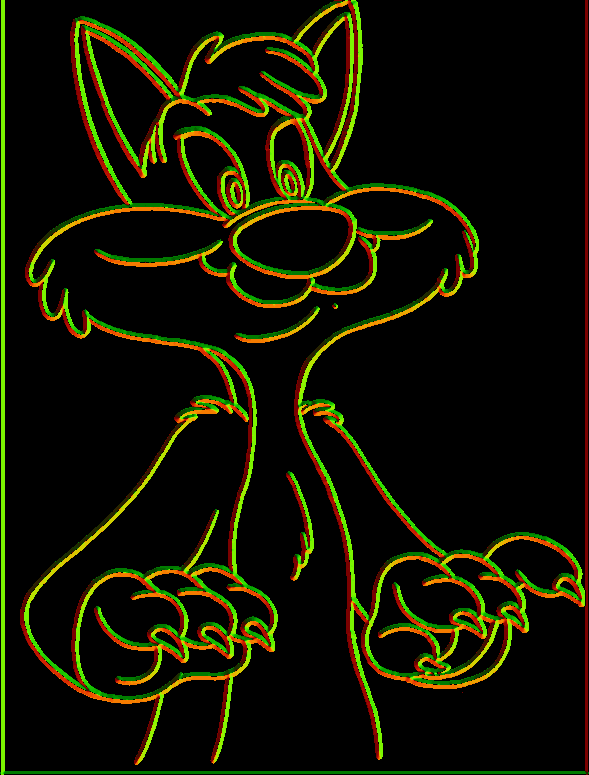
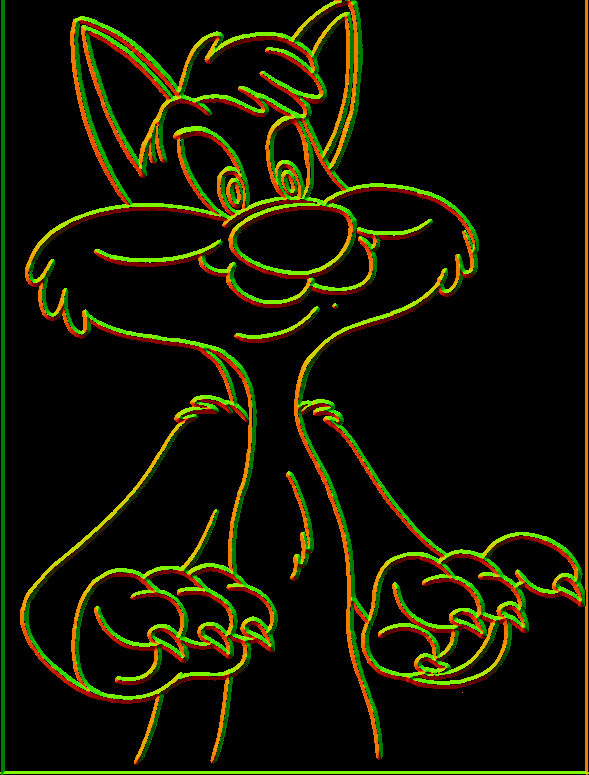
mir mir

diff --git a/src/edge.py b/src/edge.py
@@ -12,8 +12,8 @@ image = cv.imread("out2.png")
 image = cv.GaussianBlur(image,(5,5),0)
 image = cv.cvtColor(image, cv.COLOR_BGR2GRAY)
 
-edgesx = cv.filter2D(src=image, ddepth = 3, kernel=filterx)
-edgesy = cv.filter2D(src=image, ddepth = 3, kernel=filtery)
+edgesx = cv.filter2D(src=image, ddepth = 3, kernel=filterx*-1)
+edgesy = cv.filter2D(src=image, ddepth = 3, kernel=filtery*-1)
 rows,cols = edgesx.shape
 out = np.arange((rows)*(cols)*3).reshape((rows),(cols), 3).astype(np.uint8)
 out2 = np.arange((rows)*(cols)*2).reshape((rows),(cols), 2).astype(np.float32)
@@ -36,10 +36,10 @@ for i in range(rows):
             # ENJOY :)
             print(123 + 122.0*x/magn, 123 + 122.0*y/magn, x, y)
             out[i][j][0] = 0
-            out[i][j][1] = 123 + 122.0*x/magn
-            out[i][j][2] = 123 + 122.0*y/magn
-            out2[i][j][0] = x/magn
-            out2[i][j][1] = y/magn
+            out[i][j][1] = 123 + 122.0*y/magn
+            out[i][j][2] = 123 + 122.0*x/magn
+            out2[i][j][0] = y/magn
+            out2[i][j][1] = x/magn
         
 
 cv.imwrite('edgesb.png', out)
